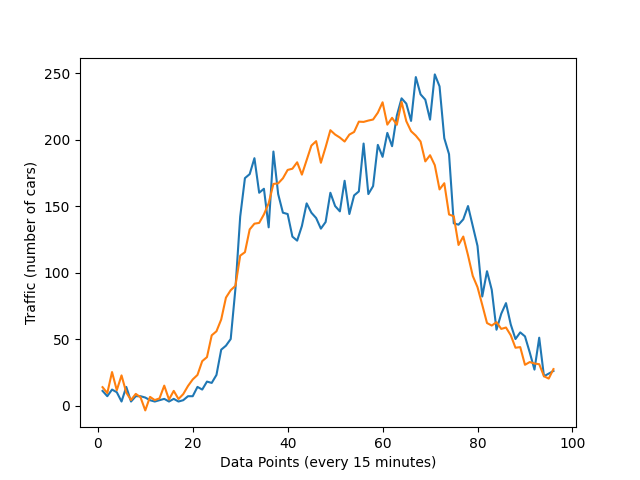
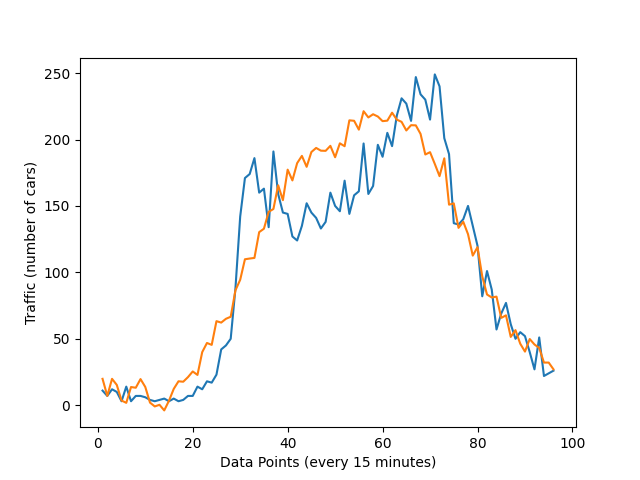
update

diff --git a/multi-step_traffic_LSTM.py b/multi-step_traffic_LSTM.py
@@ -25,8 +25,6 @@ def split_sequence(sequence, n_steps_in, n_steps_out):
 		y.append(seq_y)
 	return array(X), array(y)
 
-start_time = time.perf_counter()
-
 with open("traffic_data_real.csv", newline = '') as csv_file:
 	csv_reader = csv.reader(csv_file, delimiter = ' ')
 	traffic_data = []
@@ -35,41 +33,46 @@ with open("traffic_data_real.csv", newline = '') as csv_file:
 csv_file.close()
 
 # define input sequence
-sample_size = 96*7
-raw_seq = traffic_data[0:sample_size]
+#sample_size = 96*7*4
+#raw_seq = traffic_data[0:sample_size]
 
-#for n_steps_in in range(2,48,2):
-# choose a number of time steps
-n_steps_in = 16
-n_steps_out = 96
-# split into samples
-X, y = split_sequence(raw_seq, n_steps_in, n_steps_out)
-# reshape from [samples, timesteps] into [samples, timesteps, features]
-n_features = 1
-X = X.reshape((X.shape[0], X.shape[1], n_features))
-# define model
-model = Sequential()
-model.add(LSTM(100, activation='relu', return_sequences=True, input_shape=(n_steps_in, n_features)))
-model.add(LSTM(100, activation='relu'))
-model.add(Dense(n_steps_out))
-model.compile(optimizer='adam', loss='mse')
-# fit model
-model.fit(X, y, epochs=50, verbose=0)
-# demonstrate prediction
-x_input = array(raw_seq[sample_size-n_steps_in:sample_size])
-x_input = x_input.reshape((1, n_steps_in, n_features))
-yhat = model.predict(x_input, verbose=0)
-#print(yhat)
+for sample_size in range(96*7,96*7*52,96*7*13):
+	raw_seq = traffic_data[0:sample_size]
+	for n_steps_in in range(2,25):
 
-savetxt(f'{n_steps_in}_steps_in_{sample_size}_sample_predicted.csv',asarray(yhat),delimiter=',')
-savetxt(f'{n_steps_in}_steps_in_{sample_size}_sample_real.csv',asarray([traffic_data[sample_size:sample_size+n_steps_out]]),delimiter=',')
+		start_time = time.perf_counter()
 
-end_time = time.perf_counter()
+		# choose a number of time steps
+		#n_steps_in = 16
+		n_steps_out = 96
+		# split into samples
+		X, y = split_sequence(raw_seq, n_steps_in, n_steps_out)
+		# reshape from [samples, timesteps] into [samples, timesteps, features]
+		n_features = 1
+		X = X.reshape((X.shape[0], X.shape[1], n_features))
+		# define model
+		model = Sequential()
+		model.add(LSTM(100, activation='relu', return_sequences=True, input_shape=(n_steps_in, n_features)))
+		model.add(LSTM(100, activation='relu'))
+		model.add(Dense(n_steps_out))
+		model.compile(optimizer='adam', loss='mse')
+		# fit model
+		model.fit(X, y, epochs=50, verbose=0)
+		# demonstrate prediction
+		x_input = array(raw_seq[sample_size-n_steps_in:sample_size])
+		x_input = x_input.reshape((1, n_steps_in, n_features))
+		yhat = model.predict(x_input, verbose=0)
+		#print(yhat)
 
-print(f"TIME TAKEN: {end_time-start_time} seconds")
+		savetxt(f'{n_steps_in}_steps_in_{sample_size}_sample_predicted.csv',asarray(yhat),delimiter=',')
+		savetxt(f'{n_steps_in}_steps_in_{sample_size}_sample_real.csv',asarray([traffic_data[sample_size:sample_size+n_steps_out]]),delimiter=',')
 
-plt.plot([i for i in range(1,len(traffic_data[sample_size:sample_size+n_steps_out])+1)], traffic_data[sample_size:sample_size+n_steps_out], [i for i in range(1,len(yhat[0])+1)], yhat[0])
-plt.xlabel("Data Points (every 15 minutes)")
-plt.ylabel("Traffic (number of cars)")
-plt.savefig(f'{n_steps_in}_steps_in_{sample_size}_sample.png')
-plt.clf()
+		end_time = time.perf_counter()
+
+		print(f"TIME TAKEN: {end_time-start_time} seconds")
+
+		plt.plot([i for i in range(1,len(traffic_data[sample_size:sample_size+n_steps_out])+1)], traffic_data[sample_size:sample_size+n_steps_out], [i for i in range(1,len(yhat[0])+1)], yhat[0])
+		plt.xlabel("Data Points (every 15 minutes)")
+		plt.ylabel("Traffic (number of cars)")
+		plt.savefig(f'{n_steps_in}_steps_in_{sample_size}_sample.png')
+		plt.clf()

diff --git a/LSTM_RMSE.py b/LSTM_RMSE.py
@@ -3,8 +3,8 @@ import math
 import csv
 import matplotlib.pyplot as plt
 
-def open_csv(steps_in,type):
-    with open(steps_in + "_steps_in_" + type + ".csv", newline='') as csv_file:
+def open_csv(steps_in,sample_size,type):
+    with open(f"{steps_in}_steps_in_{sample_size}_sample_{type}.csv", newline='') as csv_file:
         csv_reader = csv.reader(csv_file, delimiter = ' ')
         data = []
         for row in csv_reader:
@@ -15,19 +15,17 @@ def open_csv(steps_in,type):
 
 steps_in_plot = []
 RMSE_plot = []
-for steps_in in range(2,48,2):
-    real_data = open_csv(str(steps_in),"real")
-    predicted_data = open_csv(str(steps_in),"predicted")
-    if not np.any(np.isnan(predicted_data)):
+for steps_in in range(2,25):
+    RMSE_array = []
+    for sample_size in range(96*7,96*7*52,96*7*13):
+        real_data = open_csv(str(steps_in),sample_size,"real")
+        predicted_data = open_csv(str(steps_in),sample_size,"predicted")
         MSE = np.square(np.subtract(real_data,predicted_data)).mean()
         RMSE = math.sqrt(MSE)
-        RMSE_plot.append(RMSE)
+        RMSE_array.append(RMSE)
+    if not np.any(np.isnan(RMSE_array)):
         steps_in_plot.append(steps_in)
+        RMSE_plot.append(np.average(RMSE_array))
 
 print(steps_in_plot)
 print(RMSE_plot)
-plt.scatter(steps_in_plot,RMSE_plot)
-plt.xticks(range(min(steps_in_plot), max(steps_in_plot)+1, 2))
-plt.xlabel("Number of Steps In")
-plt.ylabel("RMSE (Root Mean Squared Error)")
-plt.savefig("LSTM_RMSE.png")
